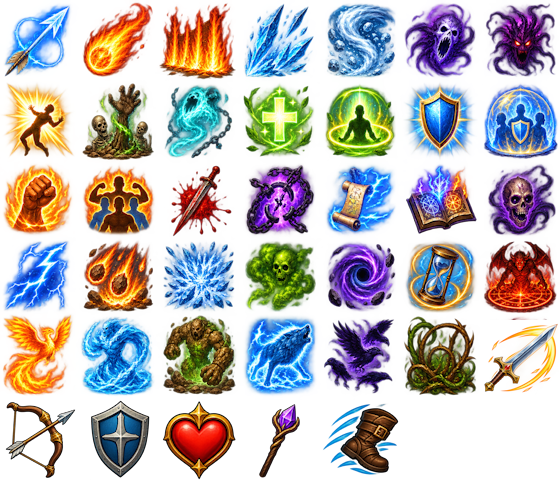
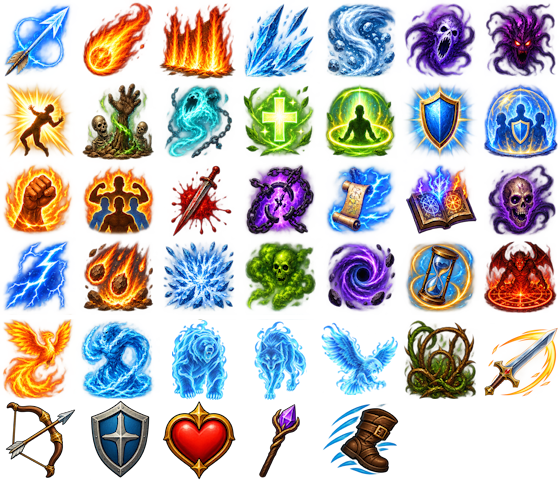
spells and monsters

Changed region(s): [[0.0, 0.6562, 1.0, 0.8438]]

diff --git a/lib/games/monsters.ts b/lib/games/monsters.ts
@@ -11,7 +11,7 @@ export function getPointsForDamage(monsterType: string, damage: number): number 
 
 export function getMonsterStrength(monster: MonsterListEntry): number {
   const stats = monster.baseStats;
-  const strength = stats.attack + stats.damage + stats.defence + stats.health;
+  const strength = stats.attack + stats.damage + stats.defence + stats.magic + stats.health;
 
   return Math.max(0, Math.min(1,
     (strength - monsterRelativeStrengths.weakest)
@@ -161,6 +161,32 @@ export const monsters: { [id: string]: MonsterListEntry } = {
       speed: 8,
     },
   },
+  'hydra': {
+    id: 'hydra',
+    name: 'Hydra',
+    iconXY: { x: 5, y: 4 },
+    baseStats: {
+      attack: 20,
+      damage: 10,
+      defence: 14,
+      magic: 0,
+      health: 20,
+      speed: 15,
+    },
+  },
+  'troll': {
+    id: 'troll',
+    name: 'Troll',
+    iconXY: { x: 8, y: 3 },
+    baseStats: {
+      attack: 11,
+      damage: 14,
+      defence: 12,
+      magic: 0,
+      health: 20,
+      speed: 6,
+    },
+  },
   'skeleton': {
     id: 'skeleton',
     name: 'Skeleton',
@@ -187,6 +213,25 @@ export const monsters: { [id: string]: MonsterListEntry } = {
       speed: 4,
     },
   },
+  'oculusfiend': {
+    id: 'oculusfiend',
+    name: 'Oculus Fiend',
+    iconXY: { x: 9, y: 3 },
+    baseStats: {
+      attack: 6,
+      damage: 5,
+      defence: 12,
+      magic: 20,
+      health: 25,
+      speed: 6,
+    },
+    spells: [
+      SpellIds.fear,
+      SpellIds.terror,
+      SpellIds.iceShards,
+      SpellIds.iceStorm,
+    ]
+  },
   'cyclops': {
     id: 'cyclops',
     name: 'Cyclops',
@@ -199,6 +244,38 @@ export const monsters: { [id: string]: MonsterListEntry } = {
       health: 25,
       speed: 5,
     },
+  },
+  'rocktroll': {
+    id: 'rocktroll',
+    name: 'Rock Troll',
+    iconXY: { x: 7, y: 4 },
+    baseStats: {
+      attack: 12,
+      damage: 18,
+      defence: 20,
+      magic: 0,
+      health: 25,
+      speed: 6,
+    },
+  },
+  'squizard': {
+    id: 'squizard',
+    name: 'Squizard',
+    iconXY: { x: 4, y: 4 },
+    baseStats: {
+      attack: 6,
+      damage: 5,
+      defence: 10,
+      magic: 30,
+      health: 20,
+      speed: 6,
+    },
+    spells: [
+      SpellIds.fireBall,
+      SpellIds.fireWall,
+      SpellIds.lightning,
+      SpellIds.fireRain,
+    ]
   },
   'minotaur': {
     id: 'minotaur',
@@ -213,6 +290,19 @@ export const monsters: { [id: string]: MonsterListEntry } = {
       speed: 5,
     },
   },
+  'firespirit': {
+    id: 'firespirit',
+    name: 'Fire Spirit',
+    iconXY: { x: 7, y: 3 },
+    baseStats: {
+      attack: 15,
+      damage: 20,
+      defence: 120,
+      magic: 0,
+      health: 20,
+      speed: 10,
+    },
+  },
   'lich': {
     id: 'lich',
     spells: [
@@ -222,6 +312,7 @@ export const monsters: { [id: string]: MonsterListEntry } = {
       SpellIds.lightning,
       SpellIds.raiseDead,
       SpellIds.animateCorpse,
+      SpellIds.familiar,
     ],
 
     name: 'Lich',
@@ -243,10 +334,29 @@ export const monsters: { [id: string]: MonsterListEntry } = {
       attack: 20,
       damage: 18,
       defence: 22,
-      magic: 10,
+      magic: 20,
       health: 30,
       speed: 11,
     },
+    spells: [
+      SpellIds.fireBreathSmall,
+    ],
+  },
+  'skeletaldragon': {
+    id: 'skeletaldragon',
+    name: 'Skeletal Dragon',
+    iconXY: { x: 6, y: 4 },
+    baseStats: {
+      attack: 16,
+      damage: 12,
+      defence: 14,
+      magic: 20,
+      health: 15,
+      speed: 10,
+    },
+    spells: [
+      SpellIds.fireBreathSmall,
+    ],
   },
   'dragon': {
     id: 'dragon',
@@ -256,10 +366,13 @@ export const monsters: { [id: string]: MonsterListEntry } = {
       attack: 30,
       damage: 25,
       defence: 28,
-      magic: 20,
+      magic: 40,
       health: 60,
       speed: 20,
     },
+    spells: [
+      SpellIds.fireBreathLarge,
+    ],
   },
   'spiriteagle': {
     id: 'spiriteagle',
@@ -313,4 +426,6 @@ export const mostersExcludeFromAutoPopulate: string[] = [
   'spiriteagle',
   'spiritwolf',
   'spiritbear',
+  'skeletaldragon',
+  'firespirit',
 ];

diff --git a/lib/runner/cauldron-of-fire/dragons.ts b/lib/runner/cauldron-of-fire/dragons.ts
@@ -8,6 +8,9 @@ import { MAP_COLUMNS, MAP_ROWS } from '@/lib/games/gridCells';
 import { games } from "@/lib/games/games";
 import { publishPreloadVideo, publishPlayVideo } from '@/lib/messages/message-videos';
 import { VideoNames } from "@/lib/messages/video-list";
+import { MonsterState } from "@/lib/store/types";
+import { SP } from "next/dist/shared/lib/utils";
+import { SpellIds } from "@/lib/games/spells";
 
 const OWNER = 'dragons';
 const DRAGON_LED_RGB = 'A00000';
@@ -67,12 +70,20 @@ export const dragons: ProcessRunner = {
         type: "dragon",
         location: dragonLocation,
         health: 60,
+        magic: 40,
+        spells: [
+          SpellIds.fireBreathLarge,
+        ]
       },
       {
         id: "fire-dragon-baby",
         type: "dragonbaby",
         location: babyLocation,
         health: 30,
+        magic: 20,
+        spells: [
+          SpellIds.fireBreathSmall,
+        ]
       },
     );
 
@@ -197,11 +208,21 @@ export const dragons: ProcessRunner = {
       }
 
       // Kill all the monsters here
+      const extraMonsters: MonsterState[] = [];
       for(const monster of params.monsters) {
-        if (lavaLocations.includes(monster.location)) {
+        if (monster.health > 0 && lavaLocations.includes(monster.location)) {
           monster.health = 0;
+
+          // Add a fire spirit in its place
+          extraMonsters.push({
+            id: `fire-spirit-${monster.id}`,
+            type: 'firespirit',
+            location: monster.location,
+            health: 20,
+          });
         }
       }
+      params.monsters.push(...extraMonsters);
 
       // Kill any NPCs here
       for(const npc of params.gameState.npcs) {
@@ -212,7 +233,7 @@ export const dragons: ProcessRunner = {
 
       // Kill any players here
       for(const player of params.gameState.players) {
-        if (lavaLocations.includes(player.location.id)) {
+        if (player.health > 0 && lavaLocations.includes(player.location.id)) {
           player.health = 0;
           playerMessageAtLocation(params, player.id, `**{player} fell into the lava**`);
         }

diff --git a/lib/games/spells.ts b/lib/games/spells.ts
@@ -23,6 +23,9 @@ export enum SpellIds {
   spiritWarrior = 'spiritWarrior',
   raiseDead = 'raiseDead',
   animateCorpse = 'animateCorpse',
+  fireBreathSmall = 'fireBreathSmall',
+  fireBreathLarge = 'fireBreathLarge',
+  familiar = 'familiar',
 };
 
 export const spells: Record<string, SpellDef> = {
@@ -292,6 +295,45 @@ export const spells: Record<string, SpellDef> = {
     iconXY: { x: 6, y: 2 },
     bonusStats: {
       special: 'Animate a fallen character or monster'
+    }
+  },
+  [SpellIds.fireBreathSmall]: {
+    id: SpellIds.fireBreathSmall.toString(),
+    name: 'Fire Breath',
+    intelligence: 15,
+    pickTarget: true,
+    targetType: SpellTargetType.enemy,
+    magicCost: 12,
+    actionCost: 15,
+    iconXY: { x: 1, y: 0 },
+    bonusStats: {
+      damage: 20,
+    }
+  },
+  [SpellIds.fireBreathLarge]: {
+    id: SpellIds.fireBreathLarge.toString(),
+    name: 'Fire Breath',
+    intelligence: 25,
+    pickTarget: false,
+    targetType: SpellTargetType.enemy,
+    magicCost: 20,
+    actionCost: 15,
+    iconXY: { x: 1, y: 0 },
+    bonusStats: {
+      damage: 20,
+    }
+  },
+  [SpellIds.familiar]: {
+    id: SpellIds.familiar.toString(),
+    name: 'Summon Familiar',
+    intelligence: 20,
+    pickTarget: false,
+    targetType: SpellTargetType.friend,
+    magicCost: 20,
+    actionCost: 15,
+    iconXY: { x: 0, y: 4 },
+    bonusStats: {
+      special: 'Summon a familiar as a minion'
     }
   },
 };

diff --git a/lib/runner/cauldron-of-fire/lich-king.ts b/lib/runner/cauldron-of-fire/lich-king.ts
@@ -351,6 +351,13 @@ export const lichKing: ProcessRunner = {
             }
           }
         }
+
+        if (spell.id === SpellIds.familiar) {
+          canCast = locations
+            .find(l => l.id === lich.location.id)!
+            .monsters.filter(m => m.health > 0 && m.type === 'skeletaldragon').length === 0;
+          requireTarget = false;
+        }
         
         if (canCast && lich.magic >= spell.magicCost) {
           availableActions.push({
@@ -404,7 +411,8 @@ export const lichKing: ProcessRunner = {
             Each action has an "action" cost, and you cannot exceed 20 action points.
             Spells also have a "magic" cost, and you cannot exceed the amount of magic you have left
             (your "magic" will go up by ${Math.ceil(lich.baseStats!.magic * 0.2)} points each turn until your maximum in "baseStats").
-            As a necromancer, you favour Raise Dead and Animate Corpse spells to build an army of minions.
+            As a necromancer, your best spell is Summon Familiar, but otherwise you favour
+            Raise Dead and Animate Corpse spells to build an army of minions.
             If there are no heros at your location, you can choose to do nothing and wait for the heros to come to you,
             or you can move around the castle looking for them.`,
           prompt: `${JSON.stringify(gameInfo)}`,

diff --git a/lib/runner/game-npc-actions.ts b/lib/runner/game-npc-actions.ts
@@ -173,10 +173,13 @@ function getCastSpellActions(params: BaseParams, npc: INamedTarget, spellId: str
   if (targets.length === 0) {
     return [];
   }
-  const necromancy = spellId === SpellIds.raiseDead || spellId === SpellIds.animateCorpse;
+  const necromancy = spellId === SpellIds.raiseDead || spellId === SpellIds.animateCorpse || spellId === SpellIds.familiar;
   if (necromancy && isMonsterCaster(params, npc)) {
     const undead = params.monsters.filter(m => m.id !== npc.id && m.location === npc.location.id
       && m.health > 0 && (m.type === 'skeleton' || m.zombie));
+    if (spellId === SpellIds.familiar) {
+      if (undead.length >= 1) return [];
+    }
     if (undead.length >= 4) return [];
   }
   // Include spells that become affordable after the available mana potion.

diff --git a/lib/runner/special-spell-actions.ts b/lib/runner/special-spell-actions.ts
@@ -18,6 +18,8 @@ export const specialSpellActions: Record<string, (params: BaseParams, player: IN
       summonSpirit(params, player, monsters['skeleton'], 7, 'dead'),
   [SpellIds.animateCorpse]: (params: BaseParams, player: INamedTarget, spell: SpellDef, targets: ITarget[]) =>
       animateCorpse(params, player, targets, 12),
+  [SpellIds.familiar]: (params: BaseParams, player: INamedTarget, spell: SpellDef, targets: ITarget[]) =>
+      summonSpirit(params, player, monsters['skeletaldragon'], 10, 'dead'),
 };
 
 function summonSpirit(params: BaseParams, player: INamedTarget, spirit: MonsterListEntry, turns: number,
